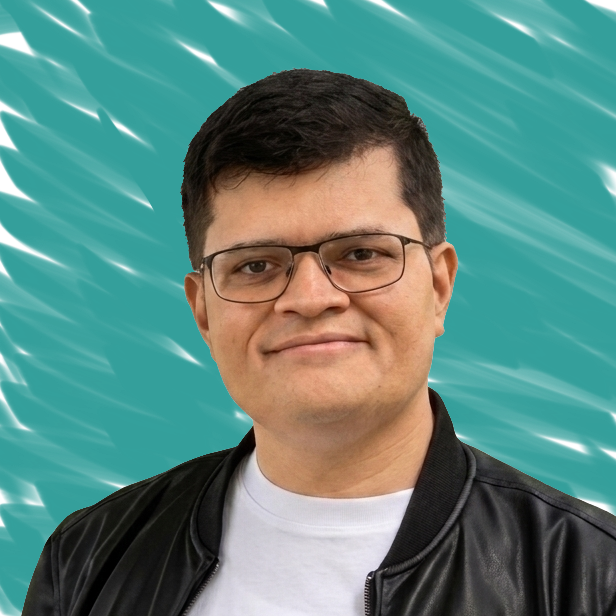
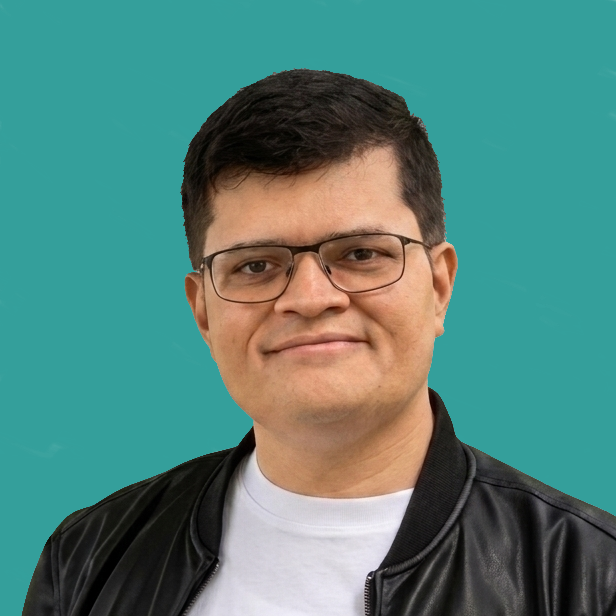
photo update

diff --git a/lib/siteData.ts b/lib/siteData.ts
@@ -20,7 +20,7 @@ export const headerData = {
 
 export const heroData = {
     avatarSrc: '/images/avatar.png',
-    title: "Data & AI Executive | Building Enterprise Data Platforms, Analytics Organizations, and AI-Enabled Businesses",
+    title: "Hello! I'm Vivek. Data, Analytics, AI, Decision Intelligence, Data Governance Leader",
     hireStatus: 'Download Resume',
     socialLinks: [
         { bootstrapIcons: "bi bi-facebook", href: "#" },